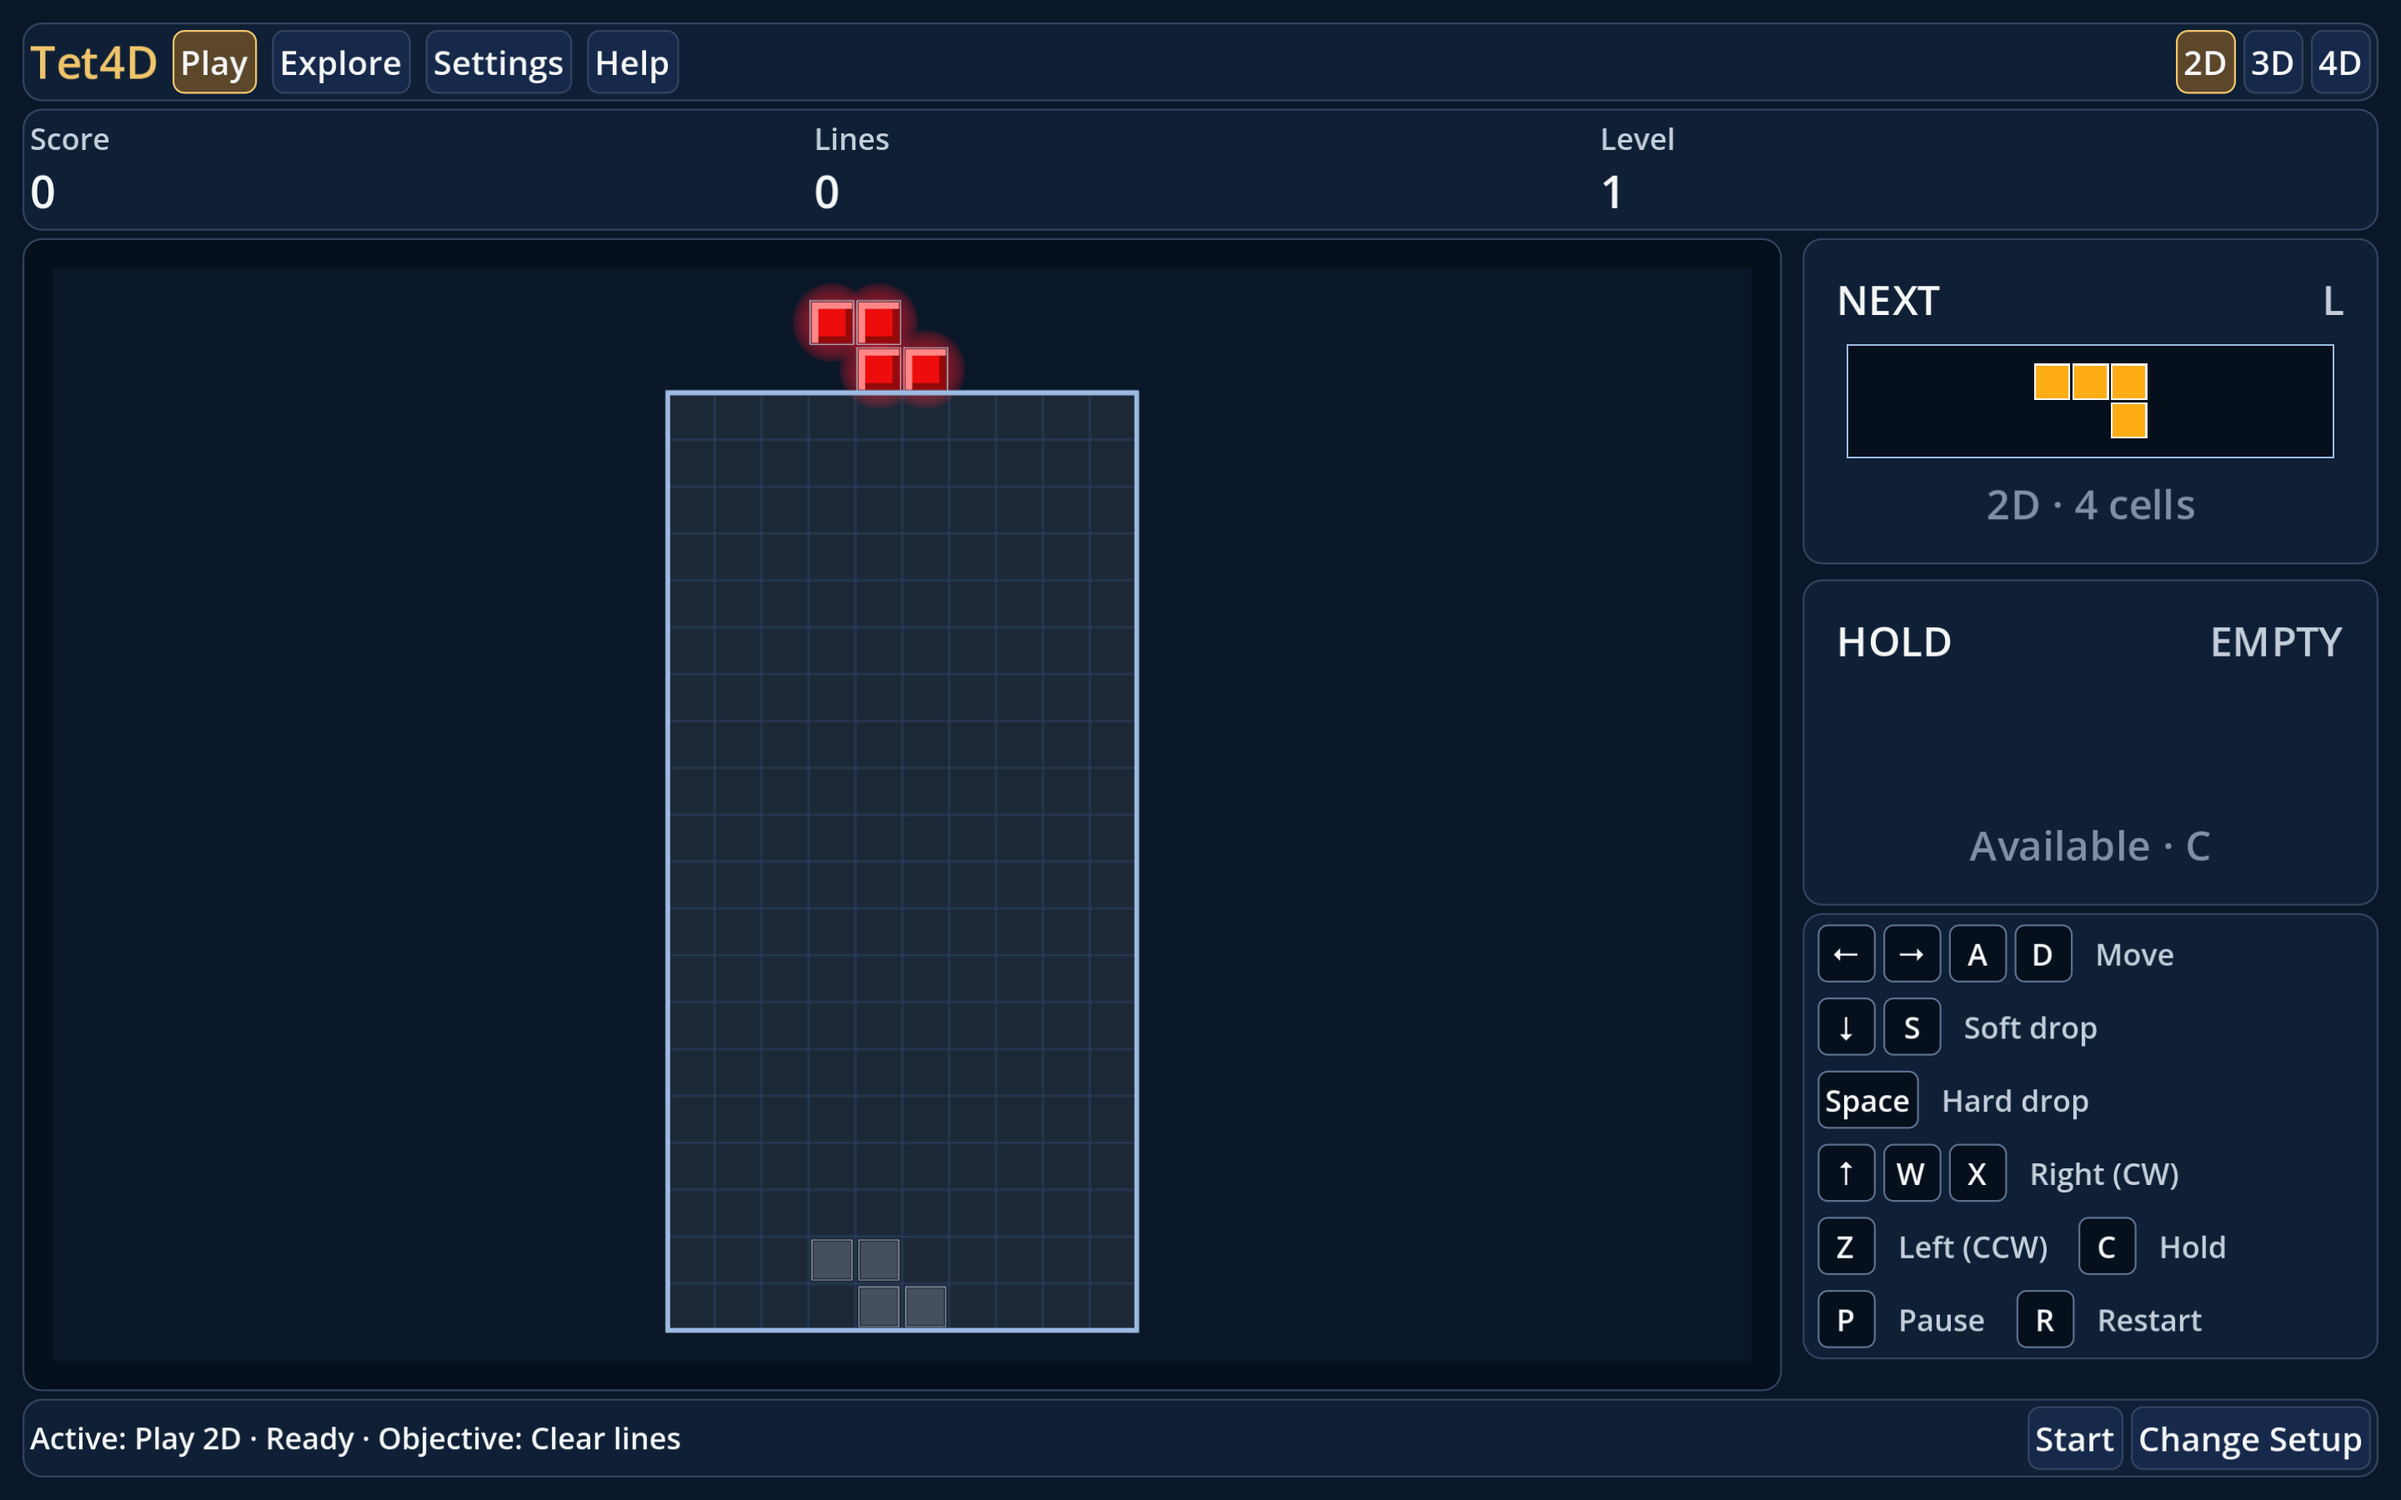
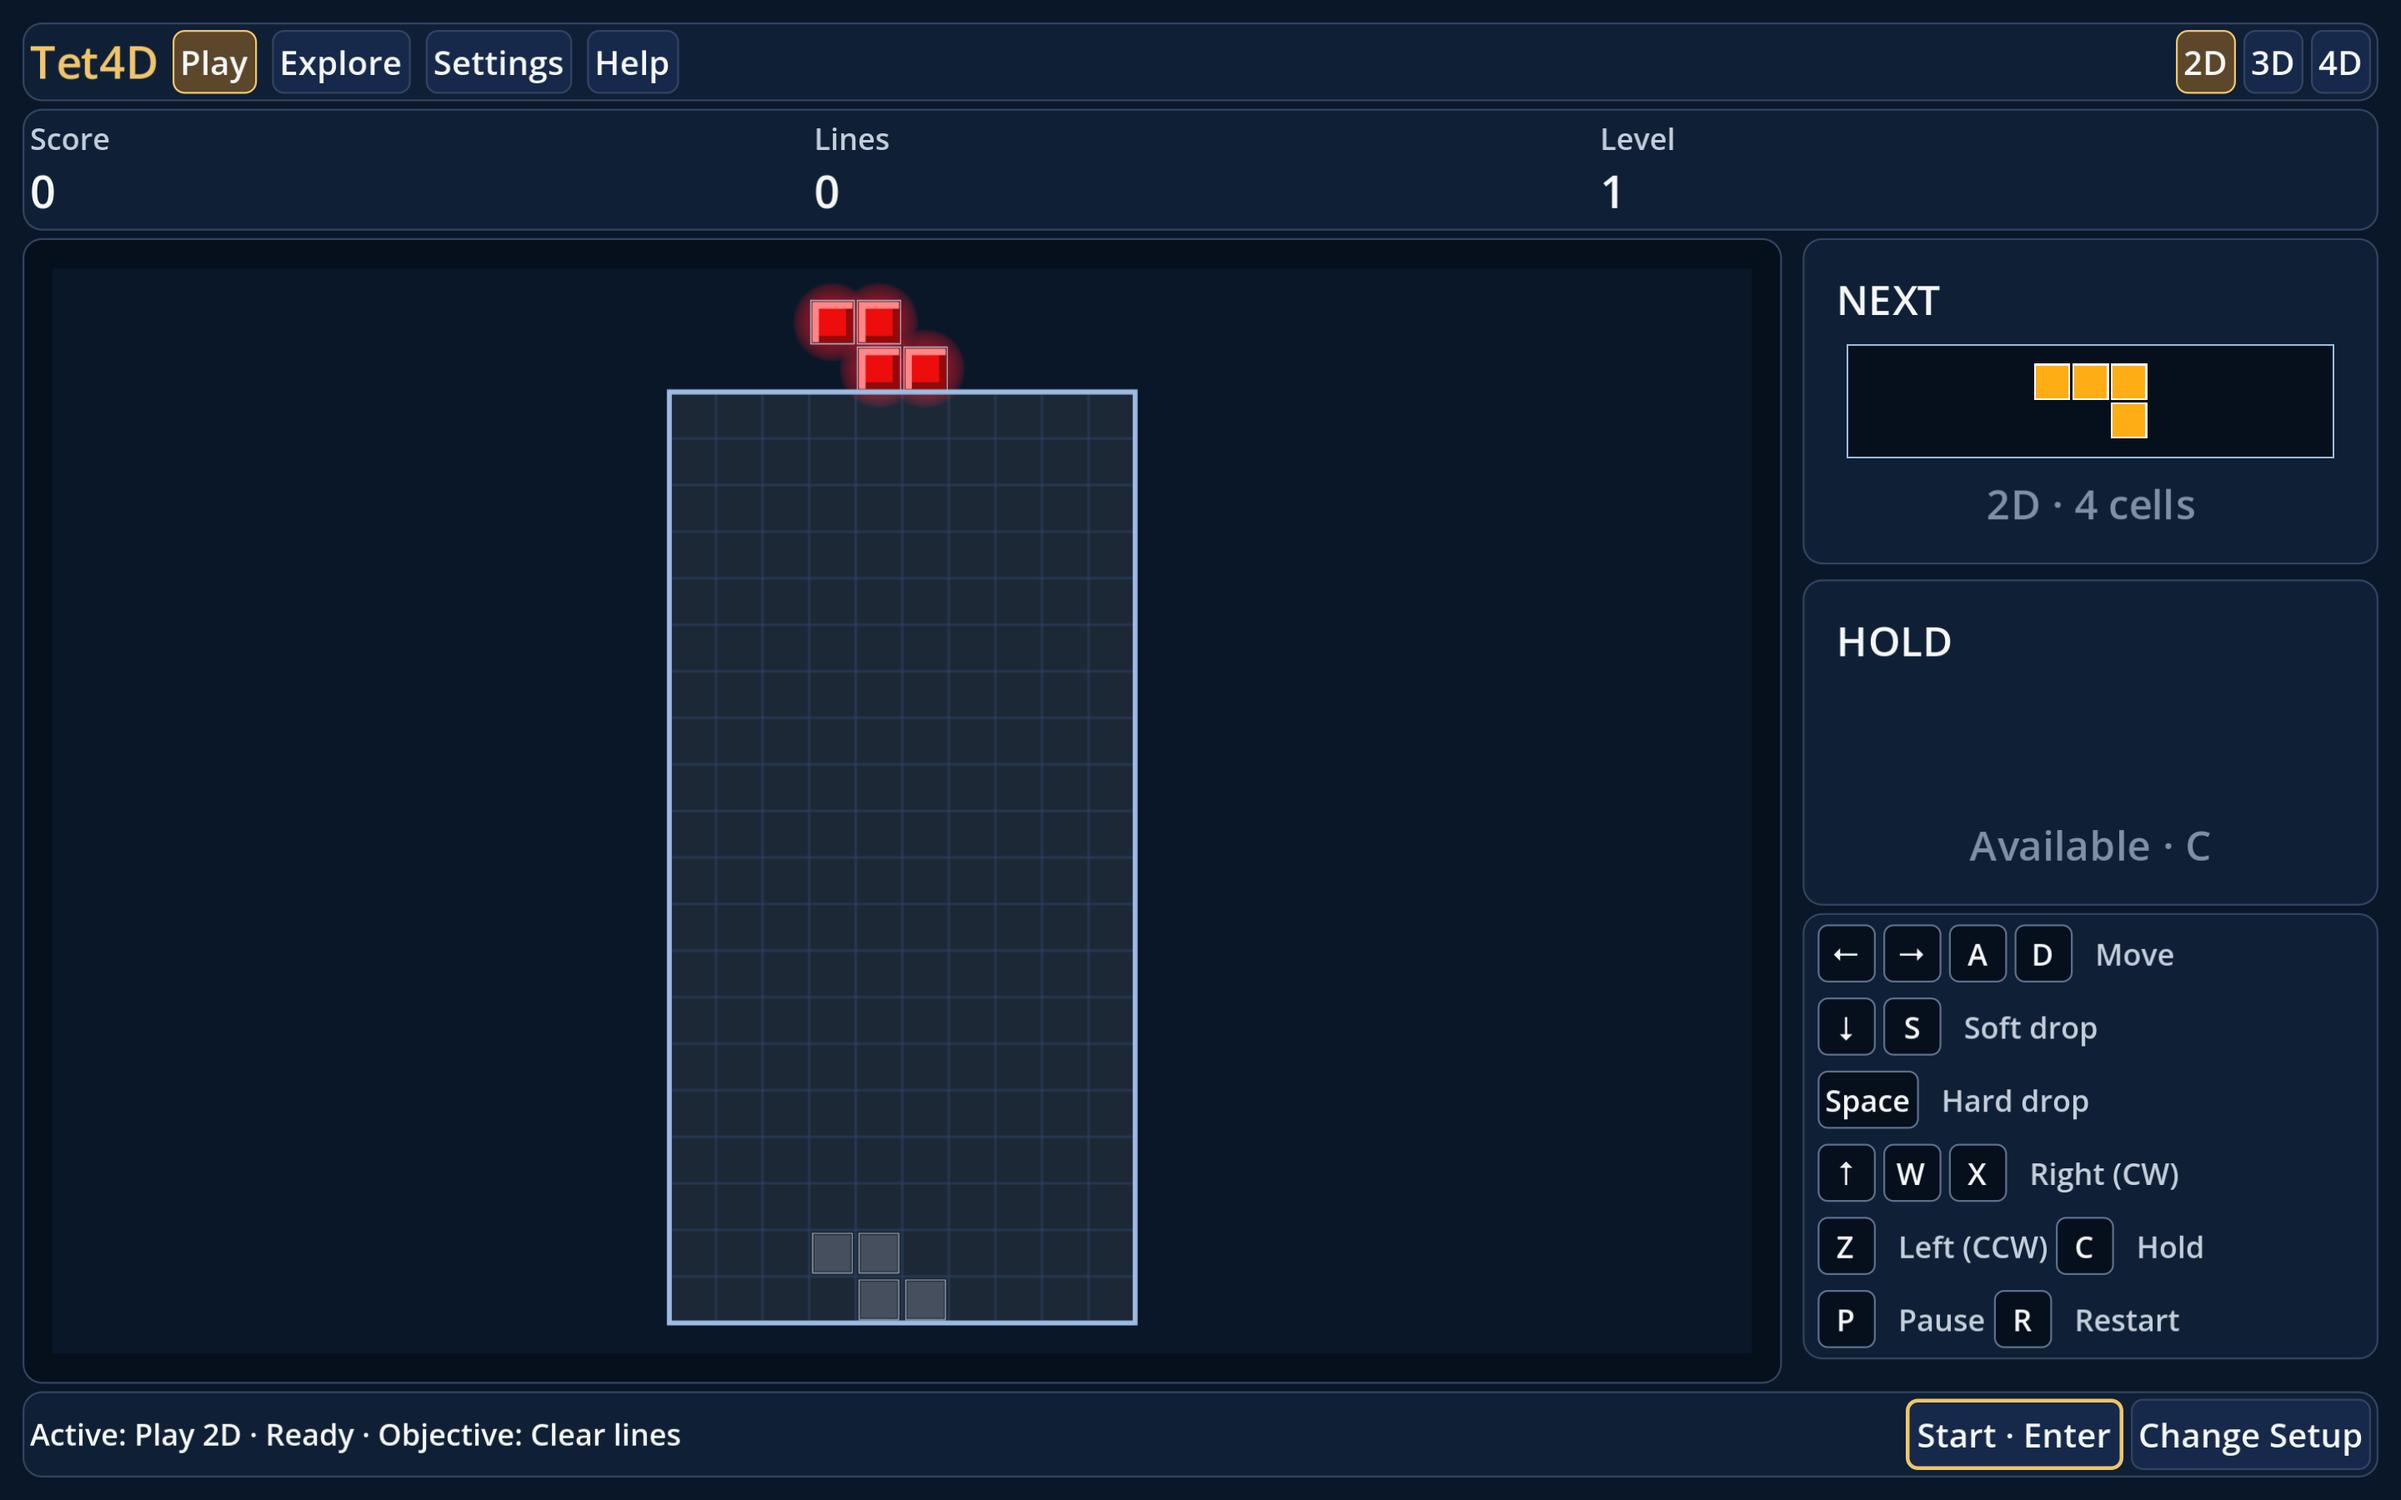
Lock visible well outlines and clarify P3 Ready

diff --git a/CURRENT_STATE.md b/CURRENT_STATE.md
@@ -15,7 +15,9 @@ Explore view and dimension on return, and explicit Start in Play. The launch
 slice is implemented on `codex/graphical-language-p3` from `graphical-design`.
 P3 keeps the approved Concept A cockpit as the default and offers Concept B
 with header stats and side controls. Both keep separate W slices. P3 review follow-up covers board allocation,
-legend visibility and full-size capture evidence.
+legend visibility and full-size capture evidence. The layout lock measures
+well outlines separately from camera-fit padding. Review is open on the
+compact Play legend versus the earlier compass and rotation glyphs.
 Explorer cockpit Phases 0–2 (lock, descriptor and independent input dispatch) are implemented and verified. CI work remains isolated in PR #185. 2D keyboard movement uses the shared mapper; tests pin camera-relative defaults and rear-view relative/absolute dispatch. Manual screen review remains pending.
 Owner debug reconnection uses compact 2D shell chrome and shared projected helper directions, omits the duplicate vertical row, and adds no functions; focused checks pass. Phases 3–6 and human visual acceptance remain open under `docs/plans/explorer_cockpit_unification.md`.
 Explorer T2A implements the native bounded/cylinder/torus translation candidate and permanent preservation suite described in `docs/architecture/explorer_topology_t2a_native_transport.md`. T1 PRs #172–#176 are the accepted baseline; remaining Correction 4B P2 findings stay deferred. T2B is integrated; the owner-authorized 2D surface candidate adds Möbius/Klein/projective, coherent rotations/Undo and compatibility two-chart S² under `docs/architecture/explorer_surface_runtime.md`. The topology-first amendment selects single-square `sphere_adjacent_positive` and probe semantics for Klein/RP²/S² (RDS §2.5); physical inverse recovery and geometric coherence do not gate translation; destination injectivity remains mandatory. Complete T2/T6 acceptance remains open. Runtime authority has not transferred. See `docs/BACKLOG.md` and `docs/architecture/explorer_topology_t2_transfer_preparation.md`.

diff --git a/docs/plans/graphical_language_adoption.md b/docs/plans/graphical_language_adoption.md
@@ -155,9 +155,11 @@ describes the older "calm instrument" look.
 - Re-baseline `test_locked_shell_layouts.gd` in this PR with the
   owner-accepted rectangles, keeping its reachability, no-clipping, focus and
   small-window checks.
-- P3 review checks cover projected board height and complete legends at the
-  standard capture window. Full-size ready and seeded midgame captures show
-  both layout choices. Smaller windows may scroll the helper deck.
+- P3 review checks cover the projected well outline without spawn headroom
+  and complete legends at the standard capture window. The compact Play
+  legend is pending owner review for its compass and rotation glyph changes.
+  Full-size ready and seeded midgame captures show both layout choices.
+  Smaller windows may scroll the helper deck.
 - Retire the `plain` and `tron` themes; keep `diagnostic` and High Contrast.
 
 ### P4 — 4D views (deferred)

diff --git a/docs/BACKLOG.md b/docs/BACKLOG.md
@@ -32,7 +32,7 @@ Completed chronology is recoverable from Git, merged PRs, CI, and
 ## Active Work
 
 - P3 review: recover board height, lock standard-window legend visibility,
-  and retain full-size Ready and seeded midgame evidence for both layouts.
+  highlight Start and retain full-size Ready and seeded midgame evidence for both layouts.
 
 - Graphical language P3: implement direct cockpit launch with Play · 2D
   defaults, last Play/Explore view and dimension, and explicit Start in Play.
